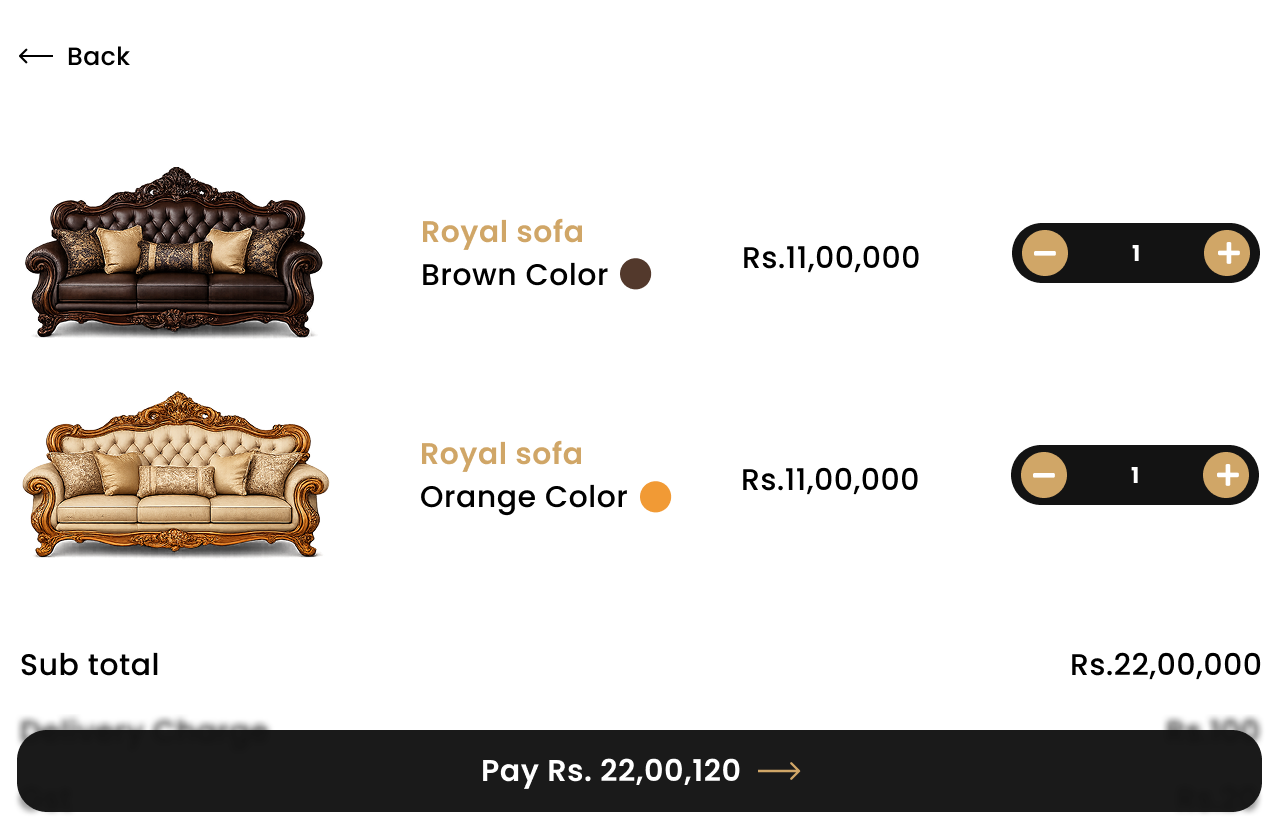
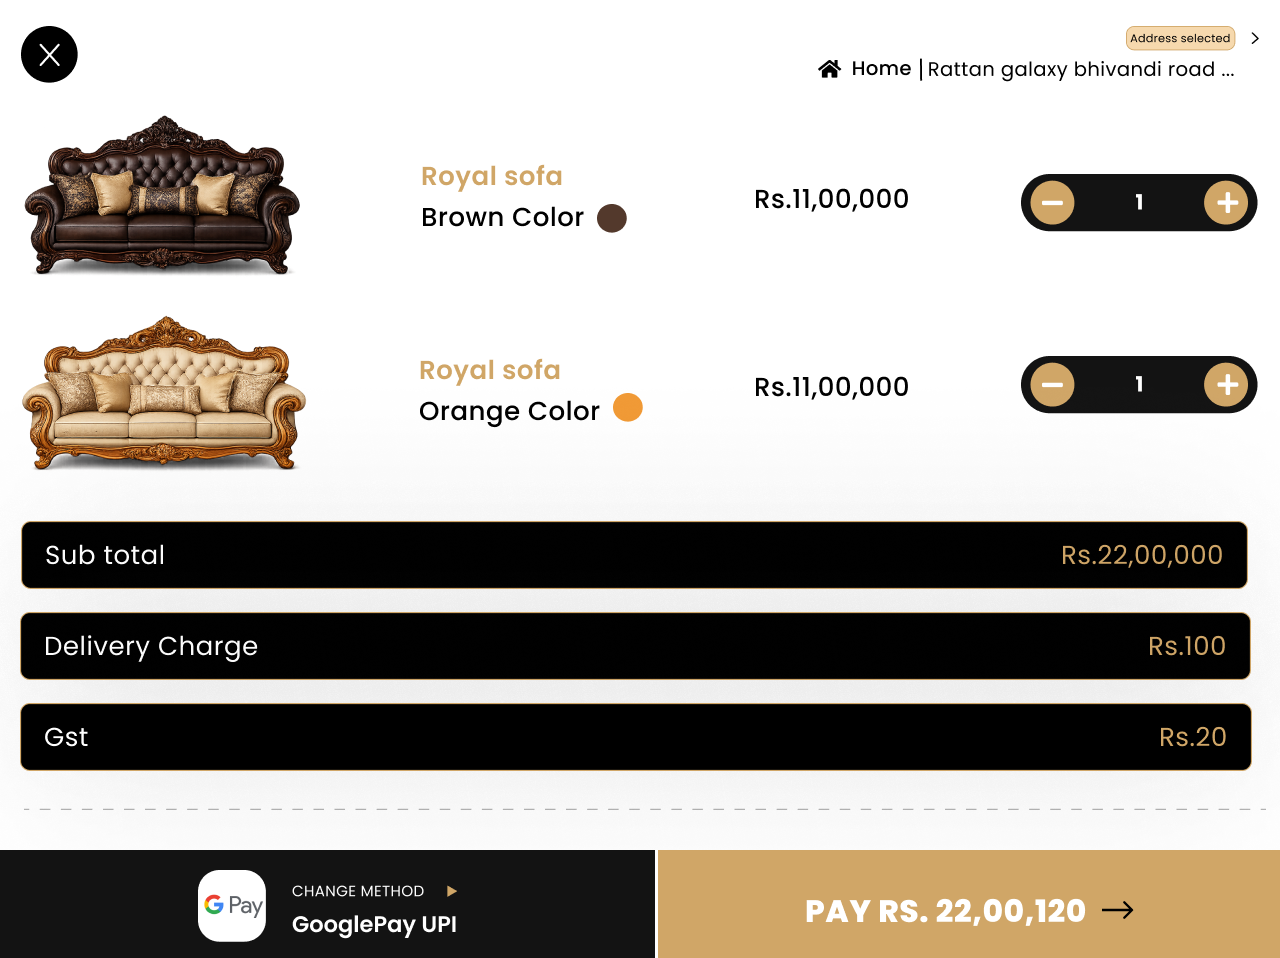
change

diff --git a/index.html b/index.html
@@ -545,6 +545,55 @@
                                             <!-- // -->
 
 
+                                            <!-- // -->
+
+                                            <div class="work-div">
+
+                                                <a href="assets/blog1.png" target="_blank">
+                                                    <img src="assets/blog1.png" alt="project">
+                                                </a>
+
+                                                <div class="work-div-txt2">
+                                                    <p class="btn"><a href="assets/blog1.png" target="_blank">
+                                                            View </a></p>
+                                                    <p> <i class="ri-arrow-right-up-line"></i></p>
+                                                </div>
+                                                <div class="work-text2">
+
+                                                </div>
+                                            </div>
+
+                                            <!-- // -->
+
+
+
+                                            <!-- // -->
+
+
+
+                                            <div class="work-div">
+
+                                                <a href="assets/royal sofa cart page.png" target="_blank">
+                                                    <img src="assets/royal sofa cart page.png" alt="project">
+                                                </a>
+
+                                                <div class="work-div-txt2">
+                                                    <p class="btn"><a href="assets/royal sofa cart page.png"
+                                                            target="_blank">
+                                                            View </a></p>
+                                                    <p> <i class="ri-arrow-right-up-line"></i></p>
+                                                </div>
+                                                <div class="work-text2">
+
+                                                </div>
+                                            </div>
+
+                                            <!-- // -->
+
+
+
+
+                                            <!-- // -->
 
 
                                             <div class="work-div">
@@ -565,29 +614,6 @@
                                                 </div>
                                             </div>
 
-
-
-
-                                            <!-- // -->
-
-
-                                            <!-- // -->
-
-                                            <div class="work-div">
-
-                                                <a href="assets/blog1.png" target="_blank">
-                                                    <img src="assets/blog1.png" alt="project">
-                                                </a>
-
-                                                <div class="work-div-txt2">
-                                                    <p class="btn"><a href="assets/blog1.png" target="_blank">
-                                                            View </a></p>
-                                                    <p> <i class="ri-arrow-right-up-line"></i></p>
-                                                </div>
-                                                <div class="work-text2">
-
-                                                </div>
-                                            </div>
 
                                             <!-- // -->
 